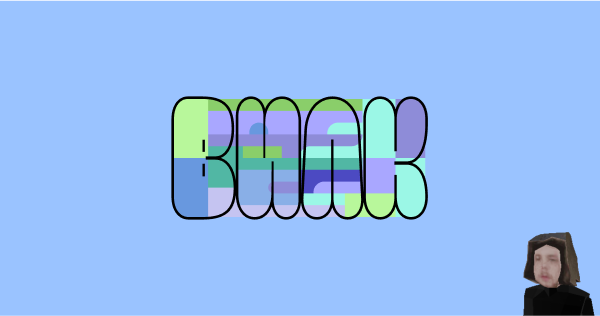
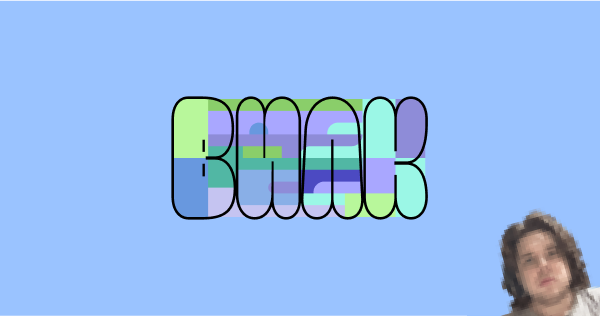
new year new me

Changed region(s): [[0.78, 0.6551, 1.0, 1.0]]

diff --git a/pho/check/index.html b/pho/check/index.html
@@ -4,16 +4,13 @@
     <meta charset="utf-8">
     <meta name="viewport" content="width=device-width, initial-scale=1">
     <title>pho invoice</title>
-    <link rel="preconnect" href="https://fonts.googleapis.com">
-    <link rel="preconnect" href="https://fonts.gstatic.com" crossorigin>
-    <link href="https://fonts.googleapis.com/css2?family=JetBrains+Mono&display=swap" rel="stylesheet">
+    <link rel="preconnect" href="https://fonts.googleapis.com"><link rel="preconnect" href="https://fonts.gstatic.com" crossorigin><link href="https://fonts.googleapis.com/css2?family=Noto+Sans+Mono&display=swap" rel="stylesheet">
     <style type="text/css">
-    @import url('https://fonts.googleapis.com/css2?family=JetBrains+Mono&display=swap');
-    body { font-family: 'JetBrains Mono', monospace;}
-    body {font-size: 14.8vw; line-height: 100%}
+    @import url('https://fonts.googleapis.com/css2?family=Noto+Sans+Mono&display=swap');
+    body { font-family: 'Noto Sans Mono', monospace; }
+    body {font-size: 10vw; line-height: 100%}
     .bottom {
-    font-size: 7.4vw;
-    font-family: 'JetBrains Mono', monospace;
+    font-size: 7.2vw;
     margin: 0;
     line-height: 100%;
     text-align: center;
@@ -29,8 +26,8 @@
     .dewrap {overflow-wrap: break-word; word-break: break-all; margin: 0;display: block;
     margin-left: auto;
     margin-right: auto;
-    width: 100%;}
-
+    width: 100%;
+    position: relative;}
     </style>
   </head>
   <body>
@@ -45,39 +42,29 @@
     <p class="bottom" >=====================</p>
   </body>
   <script type="text/javascript">
-    const currentDate = new Date();
-const currentDateString = currentDate.toLocaleDateString('en-GB', {day: '2-digit', month: 'short', year: 'numeric', separator: ' '});
-const currentTimeString = currentDate.toLocaleTimeString('en-US', {hour: '2-digit', minute: '2-digit', 'hourCycle': 'h24'});
-
-const dateElements = document.querySelectorAll('.bottom');
-
-dateElements.forEach(element => {
+  const currentDate = new Date();
+  const currentDateString = currentDate.toLocaleDateString('en-GB', {day: '2-digit', month: 'short', year: 'numeric', separator: ' '});
+  const currentTimeString = currentDate.toLocaleTimeString('en-US', {hour: '2-digit', minute: '2-digit', 'hourCycle': 'h24'});
+  const dateElements = document.querySelectorAll('.bottom');
+  dateElements.forEach(element => {
   if (element.textContent.includes('DATE')) {
-    element.textContent = element.textContent.replace('DATE', currentDateString);
+  element.textContent = element.textContent.replace('DATE', currentDateString);
   }
   if (element.textContent.includes('22:29')) {
-    element.textContent = element.textContent.replace(/\d\d:\d\d/, currentTimeString);
+  element.textContent = element.textContent.replace(/\d\d:\d\d/, currentTimeString);
   }
-});
-
-const queryString = window.location.search;
-const urlParams = new URLSearchParams(queryString);
-
-
-const imgSrc = urlParams.get('img')
-const text = urlParams.get('text');
-console.log(imgSrc);
-
-if (imgSrc == null) {
+  });
+  const queryString = window.location.search;
+  const urlParams = new URLSearchParams(queryString);
+  const imgSrc = urlParams.get('img')
+  const text = urlParams.get('text');
+  console.log(imgSrc);
+  if (imgSrc == null) {
   document.getElementById("imgsrc").outerHTML="";
-} else {
+  } else {
   document.getElementById("imgsrc").src=imgSrc;
-}
-
-document.getElementById("text").innerHTML=text;
-
-
-
+  }
+  document.getElementById("text").innerHTML=text;
   </script>
   
 </html>

diff --git a/index.html b/index.html
@@ -104,7 +104,7 @@
       <div class="cards-1-2">
         
         <div class="sq card">
-          <a href="https://t.me/vilkastakan"><img src="sq.svg" width="100%" style="vertical-align: middle;"></a>
+          <a href="https://vlk.st/me.jpg"><img src="./mesq.png" width="100%" style="vertical-align: middle; border-radius: 2rem;"></a>
         </div>
         <div class="crypto card">
           <div class="inner">
